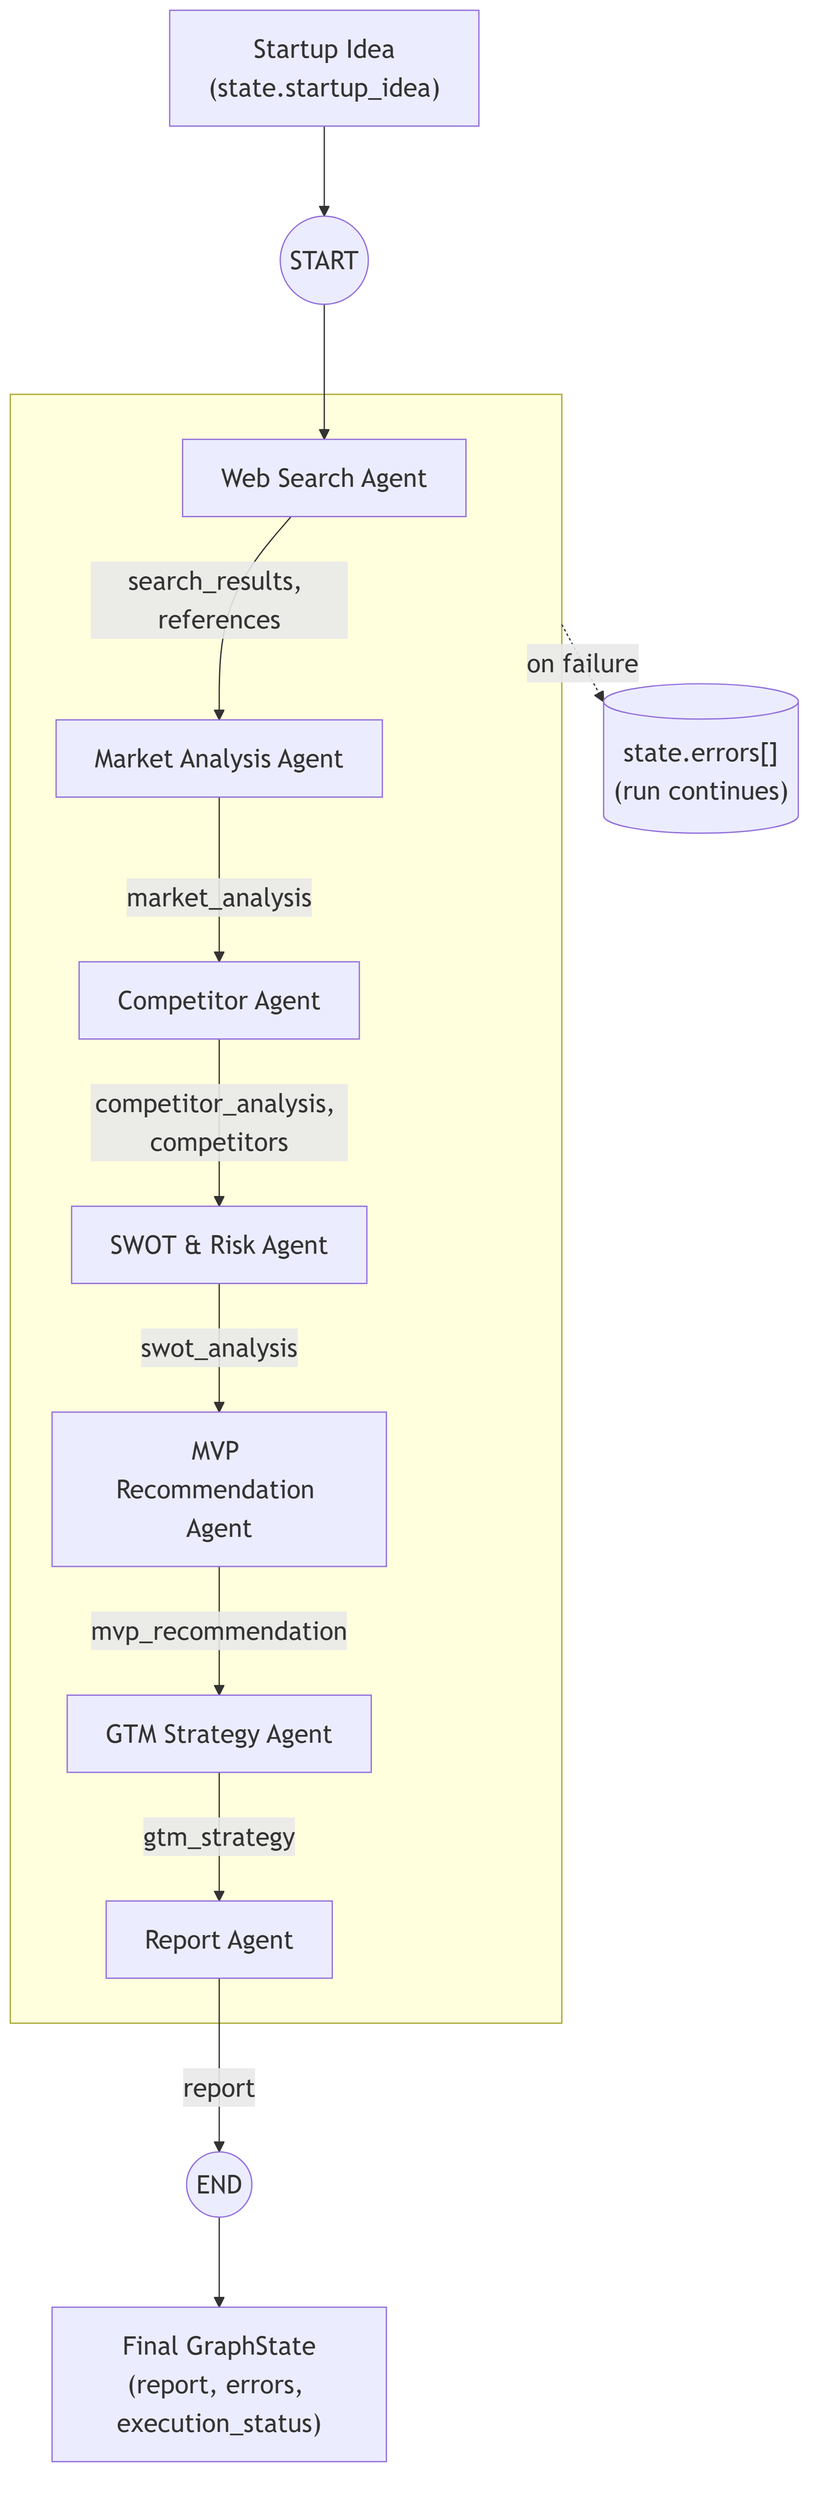
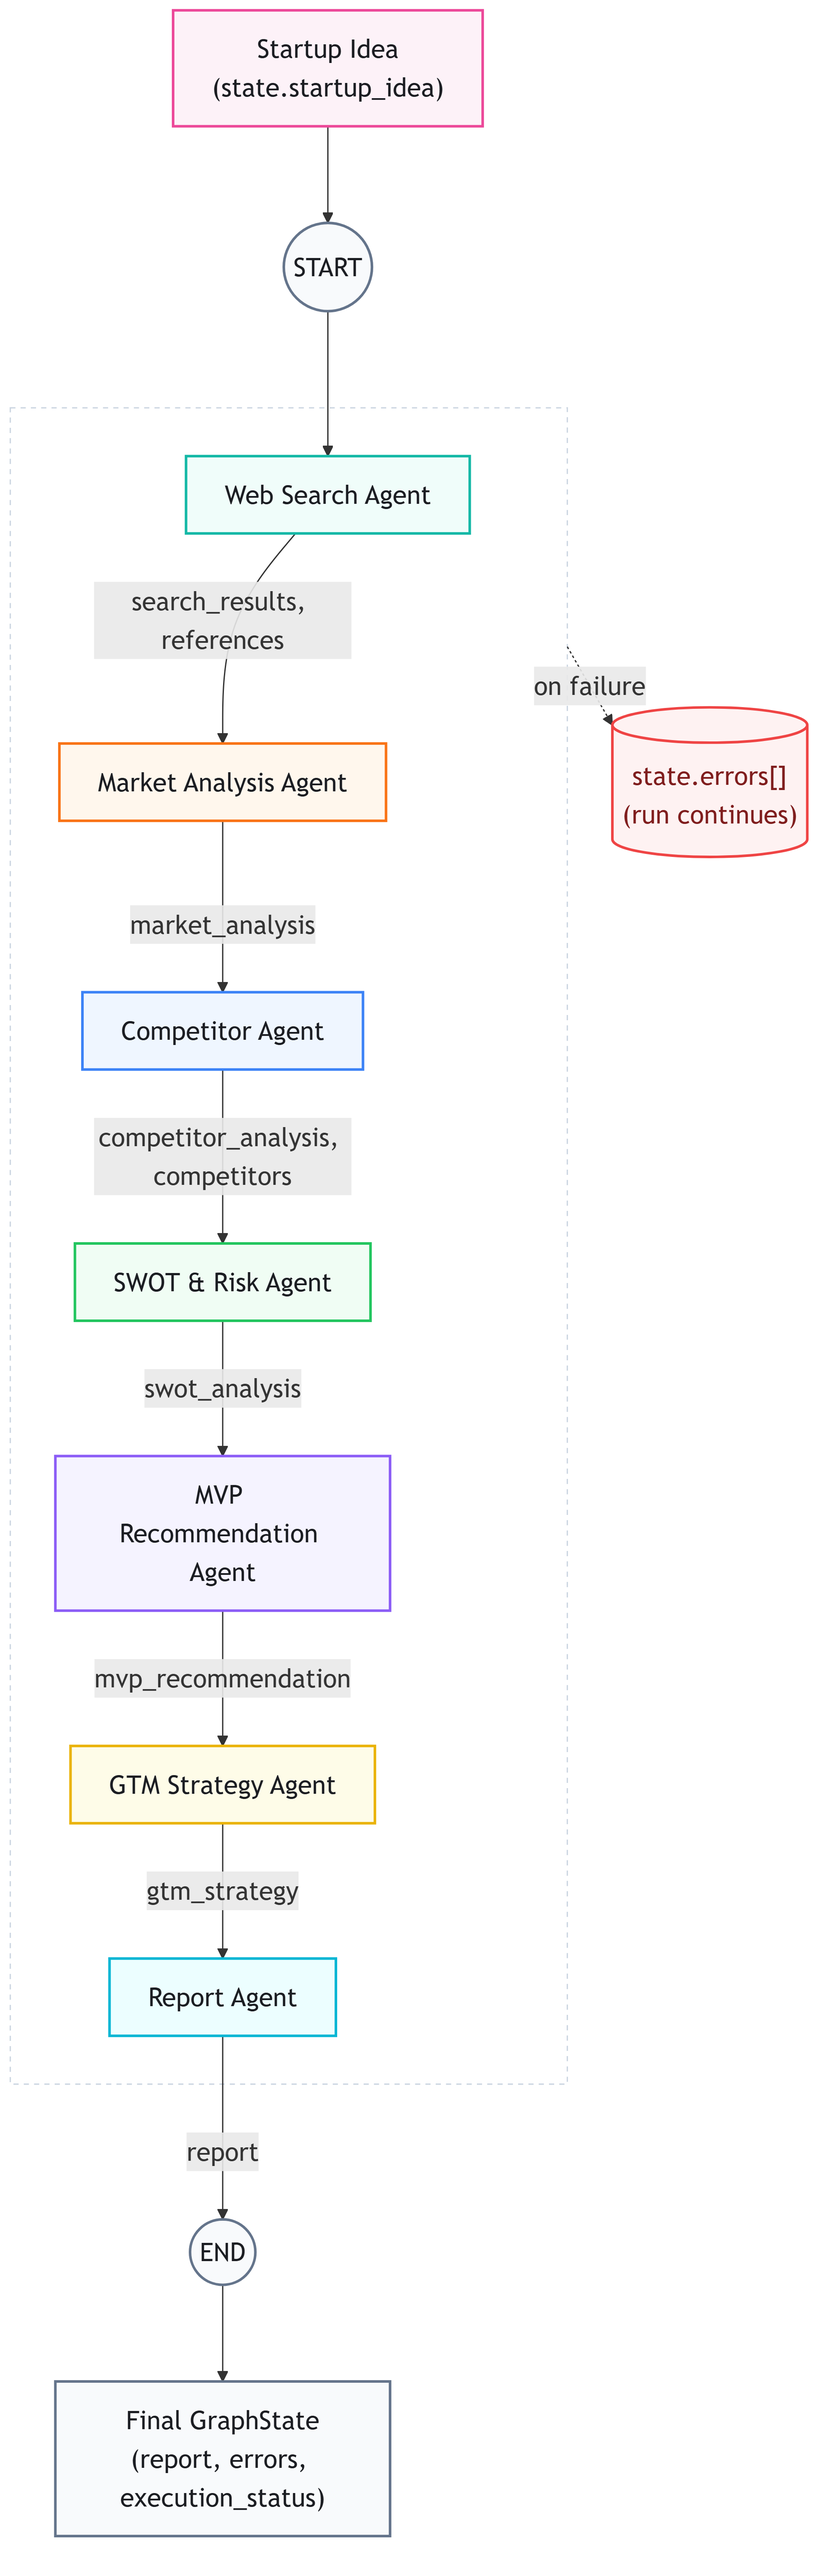
Style pipeline flow diagram with distinct colors per agent
Gives each agent node its own pastel color (matching the mermaid.ai
reference style requested) instead of a single flat color, so stages
are visually distinguishable at a glance.

diff --git a/docs/diagrams/pipeline_flow.md b/docs/diagrams/pipeline_flow.md
@@ -26,6 +26,32 @@ flowchart TD
     END_ --> OUT["Final GraphState\n(report, errors, execution_status)"]
 
     PIPELINE -.->|"on failure"| ERR[("state.errors[]\n(run continues)")]
+
+    classDef pink fill:#fdf2f8,stroke:#ec4899,stroke-width:2px,color:#1b1d22;
+    classDef teal fill:#f0fdfa,stroke:#14b8a6,stroke-width:2px,color:#1b1d22;
+    classDef orange fill:#fff7ed,stroke:#f97316,stroke-width:2px,color:#1b1d22;
+    classDef blue fill:#eff6ff,stroke:#3b82f6,stroke-width:2px,color:#1b1d22;
+    classDef green fill:#f0fdf4,stroke:#22c55e,stroke-width:2px,color:#1b1d22;
+    classDef purple fill:#f5f3ff,stroke:#8b5cf6,stroke-width:2px,color:#1b1d22;
+    classDef amber fill:#fefce8,stroke:#eab308,stroke-width:2px,color:#1b1d22;
+    classDef cyan fill:#ecfeff,stroke:#06b6d4,stroke-width:2px,color:#1b1d22;
+    classDef neutral fill:#f8fafc,stroke:#64748b,stroke-width:2px,color:#1b1d22;
+    classDef danger fill:#fef2f2,stroke:#ef4444,stroke-width:2px,color:#7f1d1d;
+
+    class IN pink;
+    class START neutral;
+    class WS teal;
+    class MA orange;
+    class CA blue;
+    class SW green;
+    class MVP purple;
+    class GTM amber;
+    class RA cyan;
+    class END_ neutral;
+    class OUT neutral;
+    class ERR danger;
+
+    style PIPELINE fill:none,stroke:#cbd5e1,stroke-width:1px,stroke-dasharray: 4 4
 ```
 
 ## Notes
